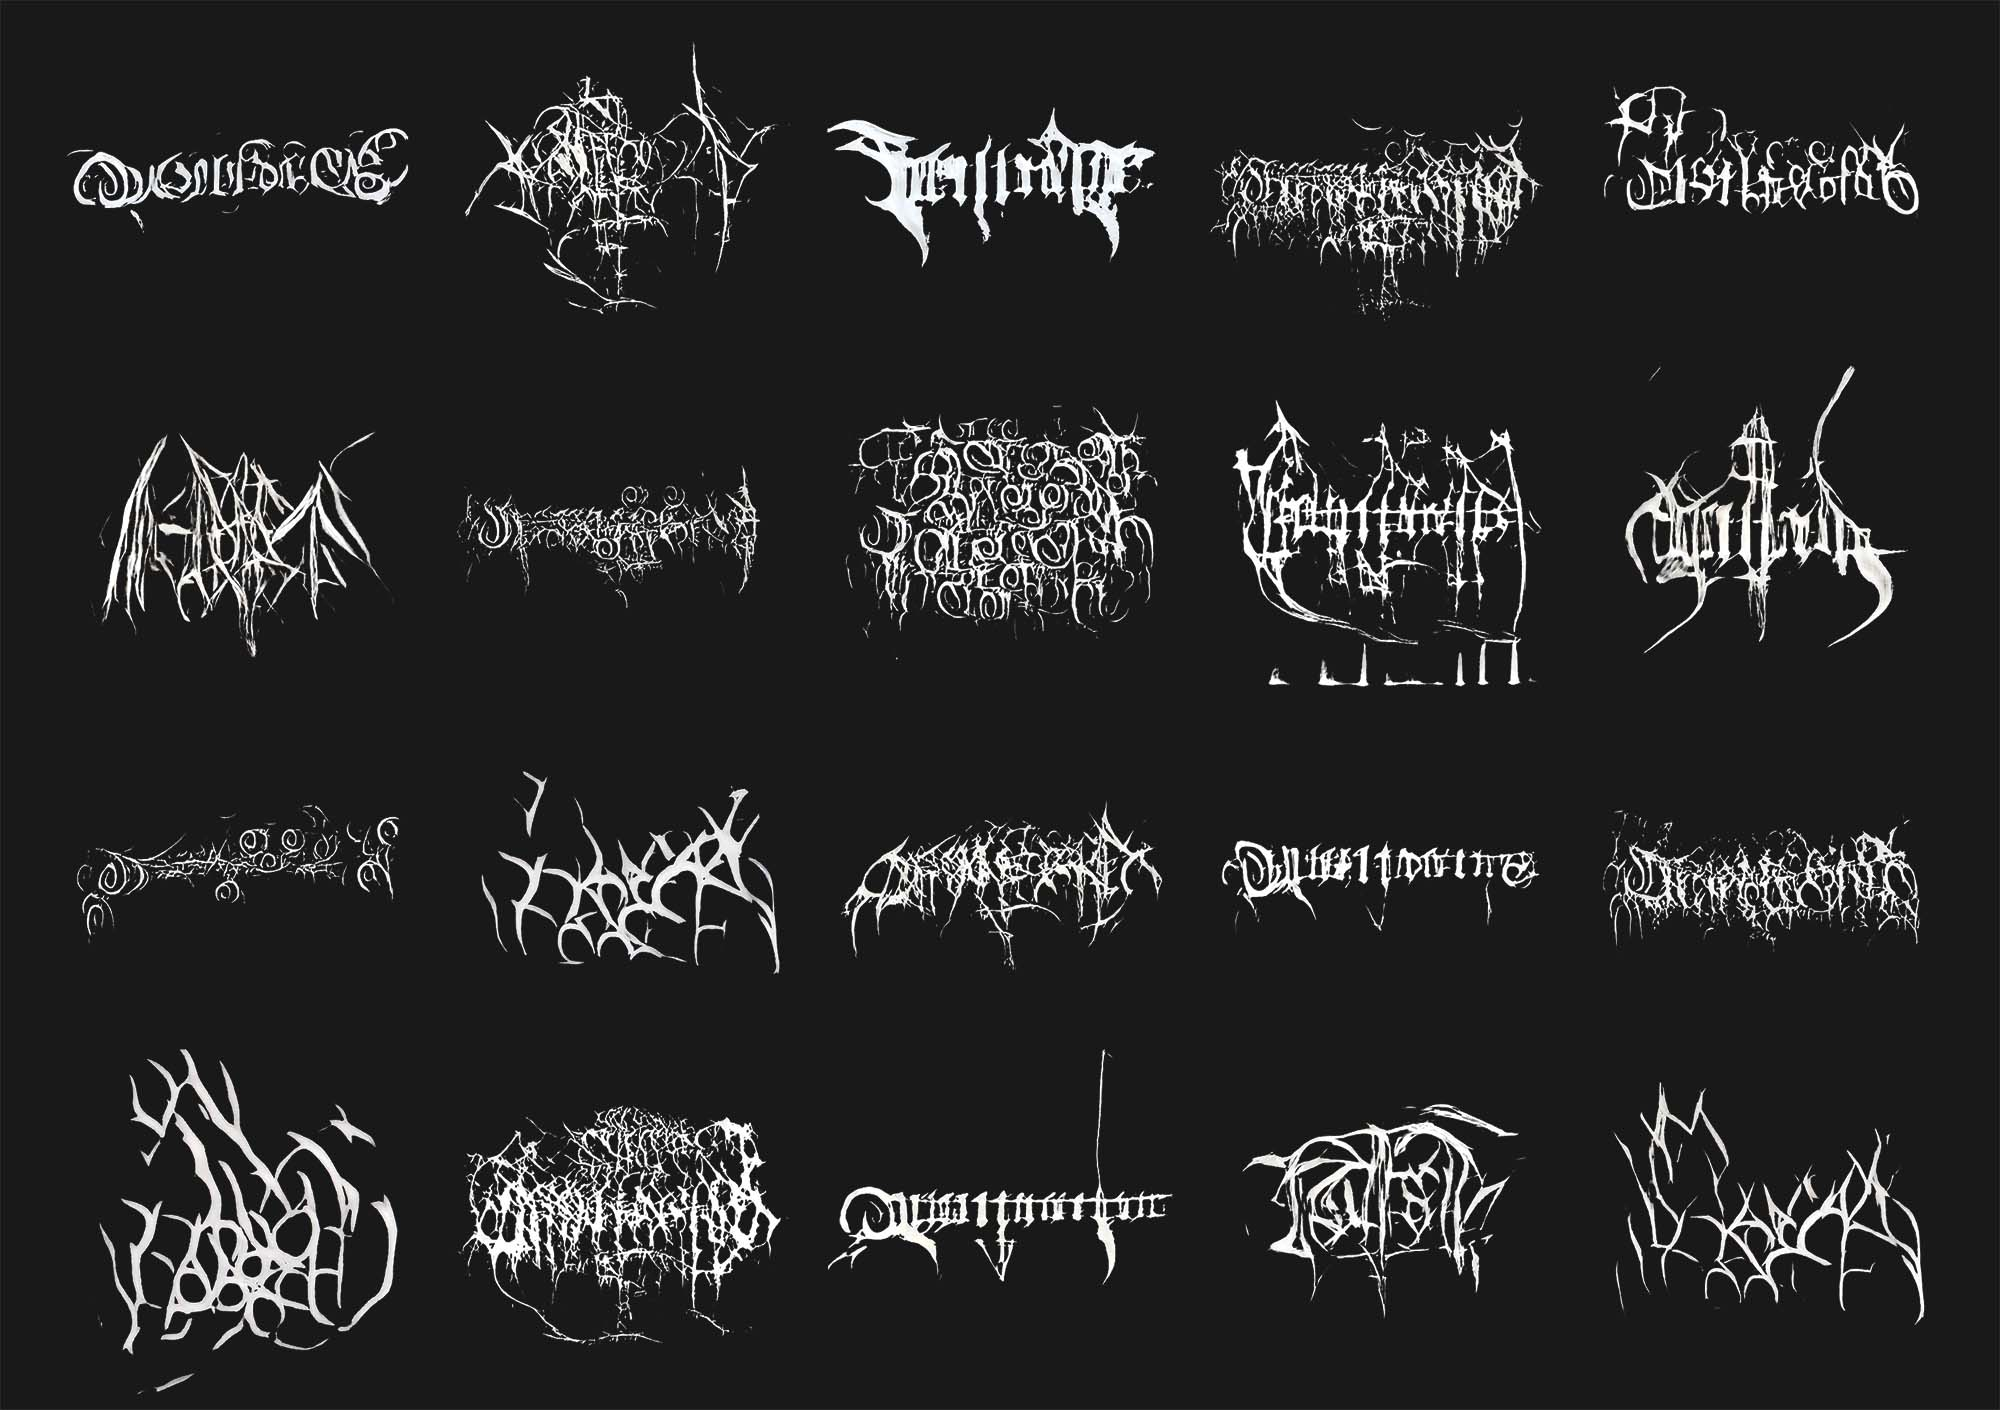
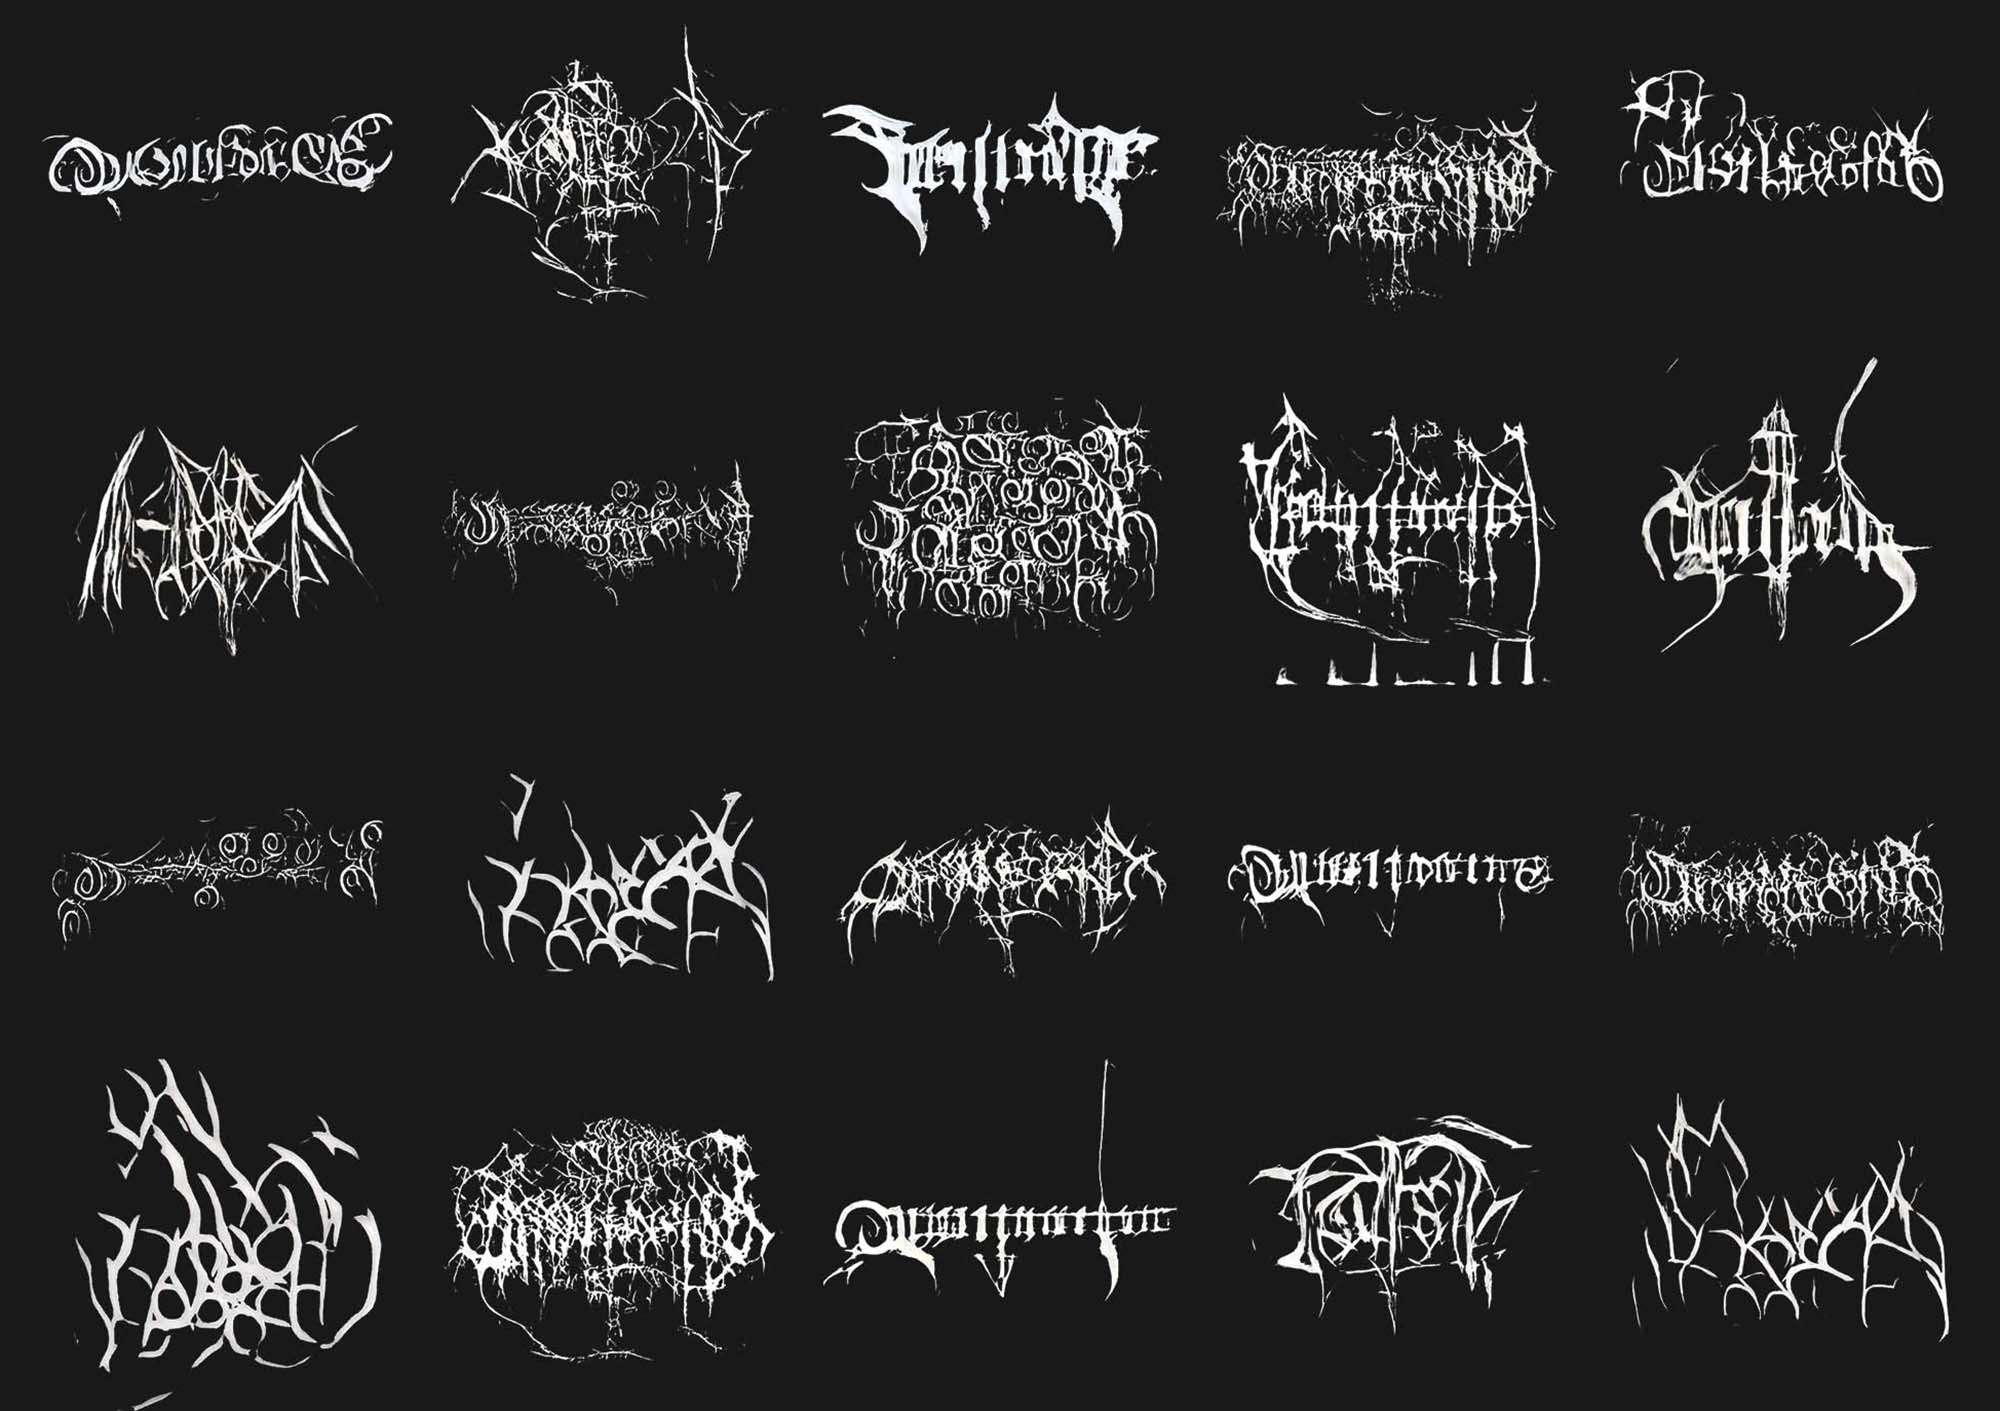
imgs + order changed

diff --git a/index.html b/index.html
@@ -4,7 +4,6 @@
     <title>Mina Amiri Kalvøy</title>
     <meta name="description" content="Mina Amiri Kalvøy">
           <link rel="stylesheet" href="./style.css">
-
   </head>
   <body>
 <!---<div class="minatitle">
@@ -65,11 +64,11 @@
 <br>
 <img src="./pics/metalgan_1.jpg" style="width:60%">
 <br>
-<img src="./pics/metalgan_2.jpg" style="width:60%">
-<br>
 <img src="./pics/metalgan_3.jpg" style="width:85%">
 <br>
-<div class="maintext" style="color: white"><p>GAN Metal Logos [2021]. GAN trained on a dataset of black metal logos using RunwayML, generating a set of yet-existing logos. Later hand embroidered on clothing.</p></div>
+<img src="./pics/metalgan_2.jpg" style="width:60%">
+<br>
+<div class="maintext" style="color: white"><p>GAN Metal Logos [2021]. GAN trained on a dataset of black metal logos using RunwayML, generating a set of yet-existing logos. Later hand embroidered on clothing</p></div>
 <br><br>
 <hr><div class="maintext" style="color: white"><p>50<sup>2</sup>20<sup>1</sup> Magazine</p></div>
 <br><br>
@@ -79,9 +78,9 @@
 <br>
 <img src="./pics/5.jpg" style="width:30%">
 <br>
-<img src="./pics/7.jpg" style="width: 95%; margin-left:0px;">
+<img src="./pics/7.jpg" style="width: 65%; margin-left:0px;">
 <br>
-<img src="./pics/green.jpg" style="width: 85%;">
+<img src="./pics/green.jpg" style="width: 75%;">
 <br>
 <div class="maintext" style="color: white"><p>50<sup>2</sup>20<sup>1</sup> [2018-19] Digital anti-magazine engaging readers in discussions about contemporary societal issues. Co-founder, curator and designer </p></div>
 <br><br>
@@ -100,7 +99,7 @@
 <br>
 <img src="./pics/23.jpg" style="width:80%">
 <br>
-<div class="maintext" style="color: white"><p>Irāne Māmān [2018] is my bachelor research project inspired by the past of my Iranian mother. </p></div>
+<div class="maintext" style="color: white"><p>Irāne Māmān [2018] is my bachelor research project inspired by the past of my Iranian mother</p></div>
 <br><br>
 <hr><div class="maintext" style="color: white"></div>
 <!---<img src="./pics/27.jpg" style="width:80%">
